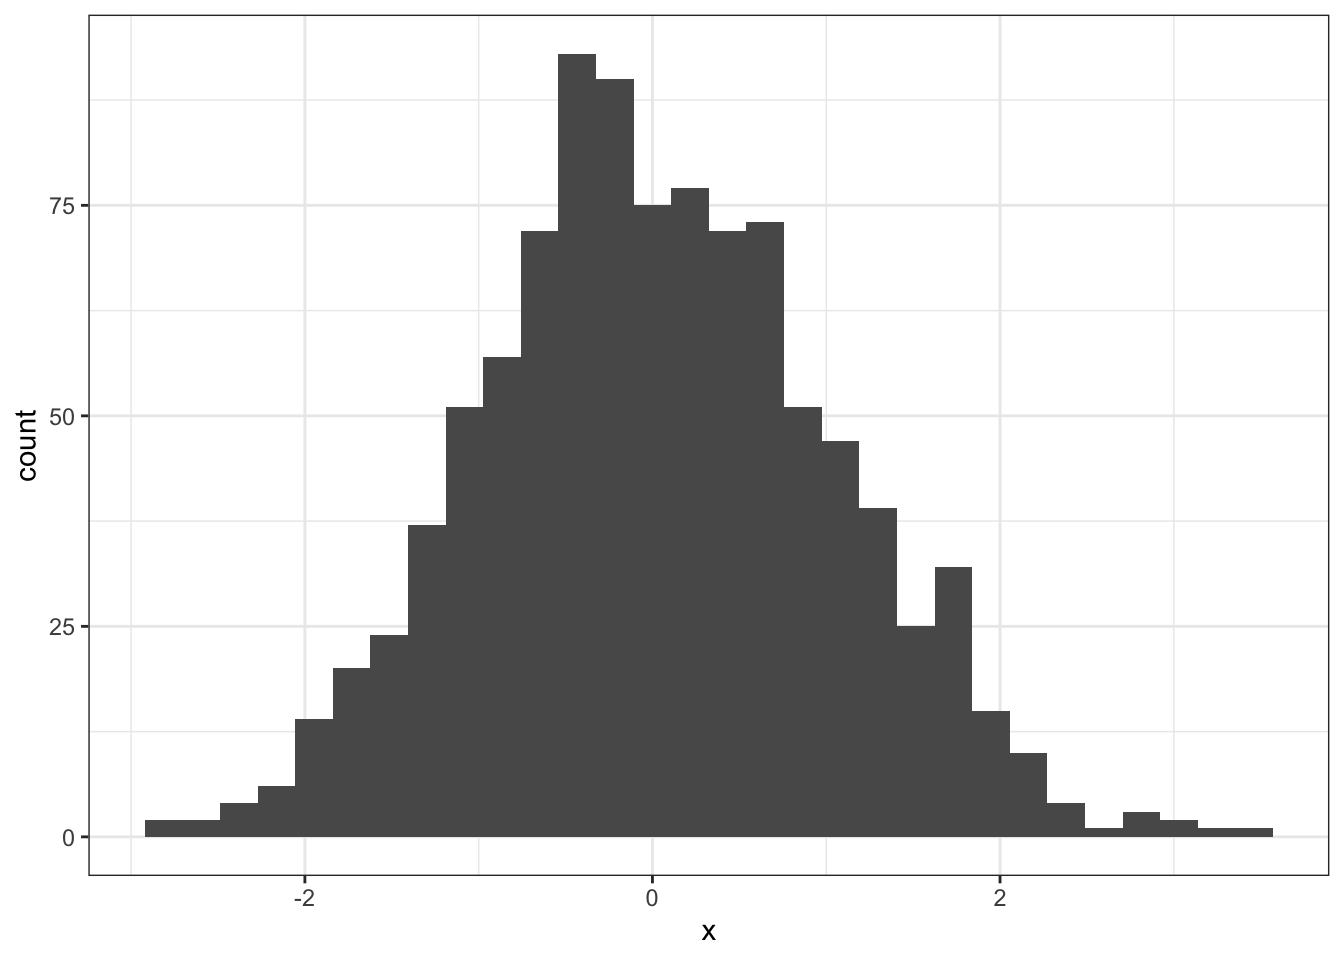
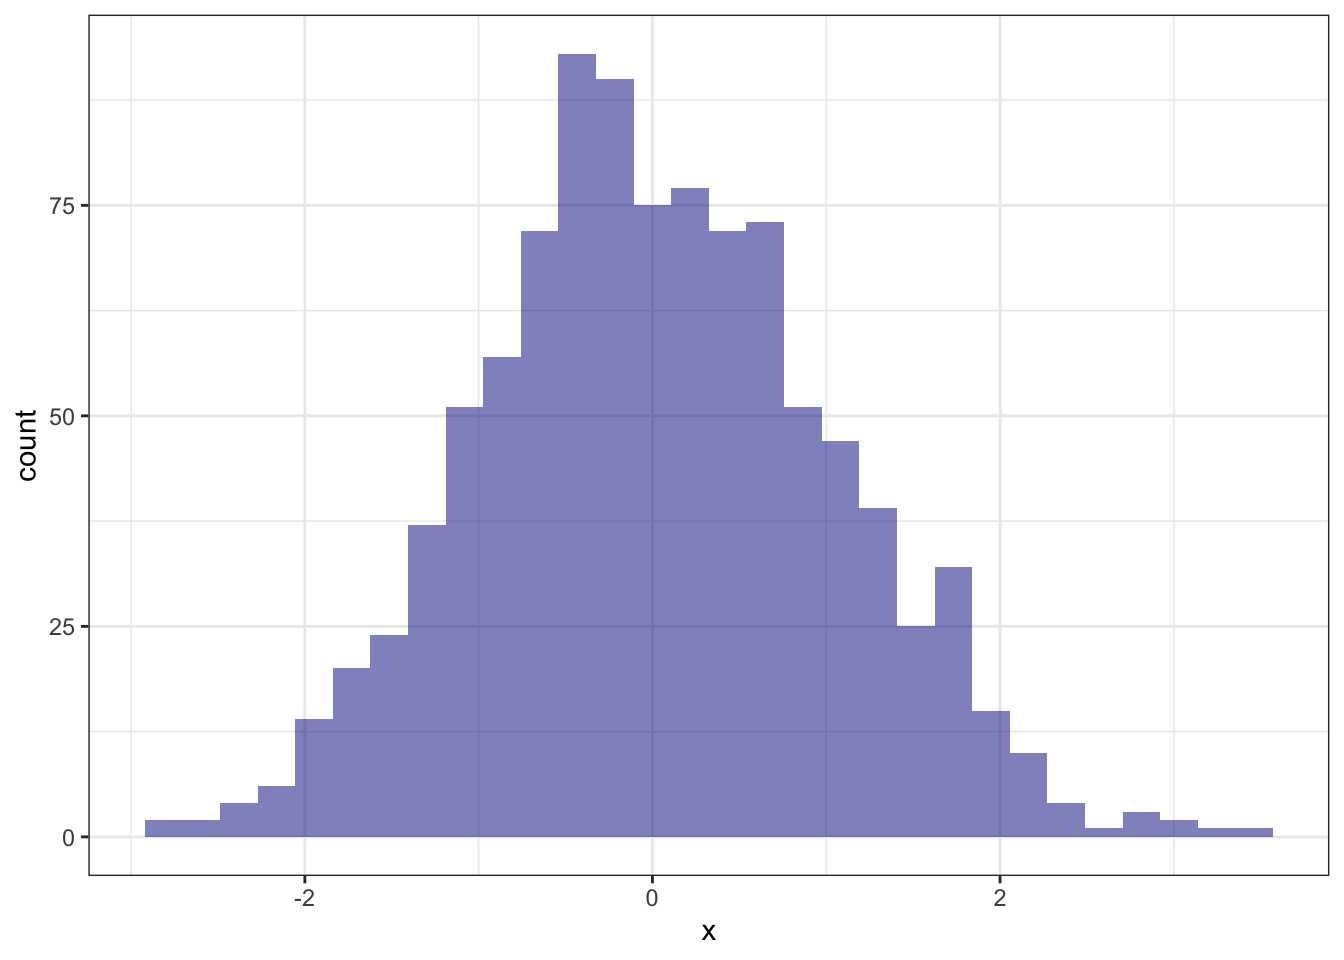
Build site.

Changed region(s): [[0.0938, 0.0312, 0.9375, 0.875]]

diff --git a/docs/ex-analysis.html b/docs/ex-analysis.html
@@ -546,16 +546,16 @@ This reproducible <a href="http://rmarkdown.rstudio.com">R Markdown</a> analysis
 <div class="panel panel-default">
 <div class="panel-heading">
 <p class="panel-title">
-<a data-toggle="collapse" data-parent="#workflowr-checks" href="#strongRepositoryversionstrongahrefhttpsgithubcomryurkolabtutorialtree316cfacf2592e0140ab00da02a3973ab8a2b0a28targetblank316cfaca"> <span class="glyphicon glyphicon-ok text-success" aria-hidden="true"></span> <strong>Repository version:</strong> <a href="https://github.com/ryurko/lab_tutorial/tree/316cfacf2592e0140ab00da02a3973ab8a2b0a28" target="_blank">316cfac</a> </a>
+<a data-toggle="collapse" data-parent="#workflowr-checks" href="#strongRepositoryversionstrongahrefhttpsgithubcomryurkolabtutorialtreed72b3a9c45c1a2c6660edee26f41d26e8756ad5dtargetblankd72b3a9a"> <span class="glyphicon glyphicon-ok text-success" aria-hidden="true"></span> <strong>Repository version:</strong> <a href="https://github.com/ryurko/lab_tutorial/tree/d72b3a9c45c1a2c6660edee26f41d26e8756ad5d" target="_blank">d72b3a9</a> </a>
 </p>
 </div>
[2 lines of base64/hex data omitted]
 <div class="panel-body">
 <p>
 Great! You are using Git for version control. Tracking code development and connecting the code version to the results is critical for reproducibility.
 </p>
 <p>
-The results in this page were generated with repository version <a href="https://github.com/ryurko/lab_tutorial/tree/316cfacf2592e0140ab00da02a3973ab8a2b0a28" target="_blank">316cfac</a>. See the <em>Past versions</em> tab to see a history of the changes made to the R Markdown and HTML files.
+The results in this page were generated with repository version <a href="https://github.com/ryurko/lab_tutorial/tree/d72b3a9c45c1a2c6660edee26f41d26e8756ad5d" target="_blank">d72b3a9</a>. See the <em>Past versions</em> tab to see a history of the changes made to the R Markdown and HTML files.
 </p>
 <p>
 Note that you need to be careful to ensure that all relevant files for the analysis have been committed to Git prior to generating the results (you can use <code>wflow_publish</code> or <code>wflow_git_commit</code>). workflowr only checks the R Markdown file, but you know if there are other scripts or data files that it depends on. Below is the status of the Git repository when the results were generated:
@@ -603,6 +603,40 @@ Message
 </tr>
 </thead>
 <tbody>
+<tr>
+<td>
+Rmd
+</td>
+<td>
+<a href="https://github.com/ryurko/lab_tutorial/blob/d72b3a9c45c1a2c6660edee26f41d26e8756ad5d/analysis/ex-analysis.Rmd" target="_blank">d72b3a9</a>
+</td>
+<td>
+ryurko
+</td>
+<td>
+2020-05-01
+</td>
+<td>
+Update example plot
+</td>
+</tr>
+<tr>
+<td>
+html
+</td>
+<td>
+<a href="https://rawcdn.githack.com/ryurko/lab_tutorial/b5f2715a878a93ffdc00d696baa8aca3e481d8a9/docs/ex-analysis.html" target="_blank">b5f2715</a>
+</td>
+<td>
+ryurko
+</td>
+<td>
+2020-05-01
+</td>
+<td>
+Build site.
+</td>
+</tr>
 <tr>
 <td>
 Rmd
@@ -670,7 +704,7 @@ Create working site with initial walkthrough and examples
 <h2>Plot example</h2>
 <pre class="r"><code>tibble(x = rnorm(1000)) %&gt;%
   ggplot(aes(x)) +
-  geom_histogram() +
+  geom_histogram(fill = &quot;darkblue&quot;, alpha = 0.5) +
   theme_bw()</code></pre>
 <pre><code>`stat_bin()` using `bins = 30`. Pick better value with `binwidth`.</code></pre>
 <p><img src="figure/ex-analysis.Rmd/figure-demo-1.png" width="672" style="display: block; margin: auto;" /></p>
